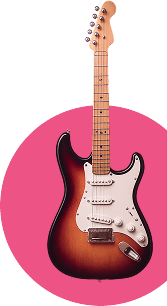
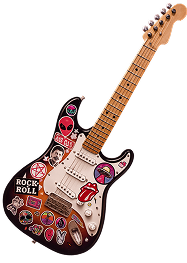
fix guitar

diff --git a/styles/st.css b/styles/st.css
@@ -443,11 +443,36 @@ h4 {
   background: conic-gradient(from 177.3deg at 81.81% 50%, #E3ADE8 0deg, #E97FC7 64.04deg, #A24198 186.92deg, #C995BE 283.85deg, #E3ADE8 360deg);
   z-index: 10;
 }
+.about .card-3::after{
+  content: '';
+  position: absolute;
+  width: 200px;
+  height: 200px;
+  background-color: #ED5385;
+  border-radius: 50%;
+  top: 58%;
+  left: 80%;
+  transform: translate(-50%, -50%);
+  z-index: -1;
+}
+
+.about .card-3::before{
+  content: '';
+  position: absolute;
+  width: 50px;
+  height: 200px;
+  background-color: #A34299;
+  top: 55%;
+  right: -14%;
+  transform: translateY(-50%);
+  z-index: 1;
+}
+
 
 .about .card-3 img {
   position: absolute;
-  right: 0;
-  bottom: 3%;
+  right: -13%;
+  bottom: 9%;
 }
 
 .about .card-4 {
@@ -621,6 +646,11 @@ h4 {
 .traffistars .row{
   position: relative;
   z-index: 1;
+}
+.verticals-list{
+  display: flex;
+  gap: 8px;
+  justify-content: center;
 }
 .star{
   position: absolute;
